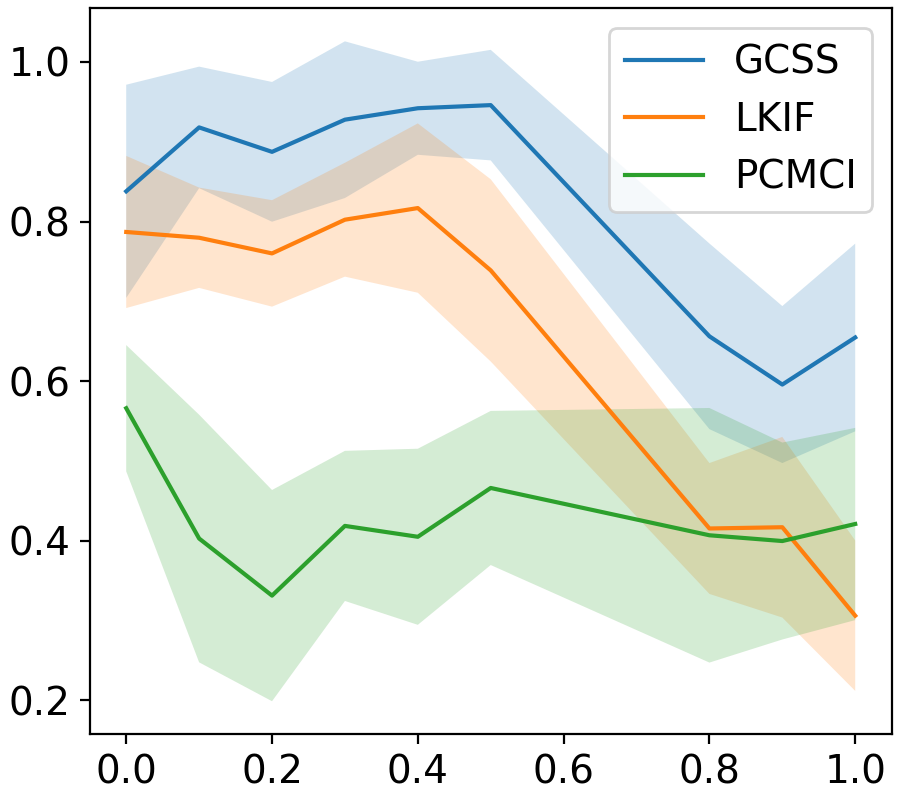
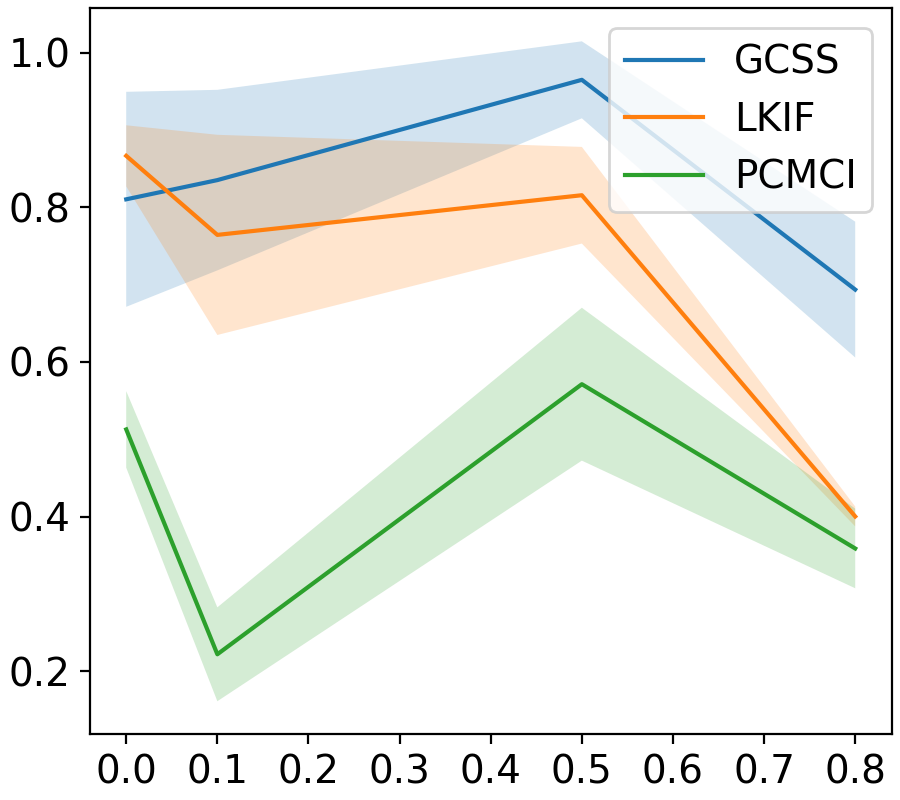
Added TPR/FPR diagrams, fractions of tipping runs, pcmci without contemporaneous links? will test more thoroughly

diff --git a/Evaluation.py b/Evaluation.py
@@ -550,11 +550,14 @@ def nonStationaryStable(plotOnly, ceilings, alpha, samples, tauMax, randomRuns):
         dim = 6
         metricsNormal = np.zeros((len(ceilings), randomRuns, 4, 3))
         metricsReducedInfo = np.zeros((len(ceilings), randomRuns, 4, 3))
+        tipped = np.zeros(len(ceilings))
         for i in range(len(ceilings)):
             for j in range(randomRuns):
                 dT = lambda x,t : (t <= 50) * (-0.4 / 50) * ceilings[i]
-                data = DataGenerator.getCascade6dConfoundedBrainpy(dT, truthMatrix, 1000, 0.001)
-                metrics = getMetricOfRealization(couplingMatrix = truthMatrix, algorithms = ["GCSS", "LKIF", "PCMCI"], model= "None", 
+                data = DataGenerator.getCascade6dConfoundedBrainpy(dT, truthMatrix, samples, 0.001)
+                # if we cross the threshold between +1 and -1, we assume tipped
+                if np.min(data[:dim]) < 0: tipped[i] += 1
+                matrices = getMetricOfRealization(couplingMatrix = truthMatrix, algorithms = ["GCSS", "LKIF", "PCMCI"], model= "None", 
                                                  samples = samples, alpha= alpha, couplingStrength= 1, noiseScale= 0.01, tauMax= tauMax,
                                                   seed= 0, deltaTCascadeOutput= 0, evalType= "Full", fullData = data.T, returnMatrices=True)
                 matrices = matrices[:,:dim,:dim]
@@ -563,11 +566,17 @@ def nonStationaryStable(plotOnly, ceilings, alpha, samples, tauMax, randomRuns):
                                                  samples = samples, alpha= alpha, couplingStrength= 1, noiseScale= 0.01, tauMax= tauMax,
                                                   seed= 0, deltaTCascadeOutput= 0, evalType= "Full", fullData = data[:dim].T, returnMatrices=True)
                 metricsReducedInfo[i,j] = np.array([getFullMetrics(truthMatrix, matrix) for matrix in matrices2]).T
+            tipped[i] = tipped[i] / randomRuns
         np.save("./data/Casc_forcing6d.npy", metricsNormal)
         np.save("./data/Casc_forcing_reducedInfo_6d.npy", metricsReducedInfo)
+        np.save("./data/Casc_forcing6d_tippedFraction.npy", tipped)
     else: 
         metricsNormal = np.load("./data/Casc_forcing6d.npy")
         metricsReducedInfo = np.load("./data/Casc_forcing_reducedInfo_6d.npy")
+        tipped = np.load("./data/Casc_forcing6d_tippedFraction.npy")
+    
+    vis.saveMCCCurve(tipped, ceilings, "", "./diagrams/forcing6d_tippedFraction", xlabel="Forcing Strength", ylabel="Fraction of runs with tipping")
+
     fullInfoMCC = MCCFromFull(np.array(metricsNormal), axis=2)
     fullInfoMean, fullInfoStd = getMeanStdDev(fullInfoMCC, axis = 1)
     noInfoMCC = MCCFromFull(np.array(metricsReducedInfo), axis=2)
@@ -582,11 +591,33 @@ def nonStationaryStable(plotOnly, ceilings, alpha, samples, tauMax, randomRuns):
     
     vis.saveMCCCurve(fullInfoMean.T, ceilings, "", "./diagrams/forcing6d", fullInfoStd.T, rowLabels=["GCSS", "LKIF", "PCMCI"])
     vis.saveMCCCurve(noInfoMean.T, ceilings, "", "./diagrams/forcing6d_reducedInformation", noInfoStd.T, rowLabels=["GCSS", "LKIF", "PCMCI"])
-
-    vis.saveMCCScatter(gcssInfo.T, ceilings, "", "./diagrams/forcing6d_gcss", gcssStd.T, rowLabels=["With Conf.", "Without"],figsize=(8,2), dpi=300)
-    vis.saveMCCScatter(lkifInfo.T, ceilings, "", "./diagrams/forcing6d_lkif", lkifStd.T, rowLabels=["With Conf.", "Without"],figsize=(8,2), dpi=300)
-    vis.saveMCCScatter(pcmInfo.T, ceilings, "", "./diagrams/forcing6d_pcmci", pcmStd.T, rowLabels=["With Conf.", "Without"],figsize=(8,2), dpi=300)
     
+    vis.saveMCCScatter(gcssInfo.T, ceilings, "", "./diagrams/forcing6d_gcss", gcssStd.T, rowLabels=["Known Confounder", "Hidden Confounder"],figsize=(8,2), dpi=300)
+    vis.saveMCCScatter(lkifInfo.T, ceilings, "", "./diagrams/forcing6d_lkif", lkifStd.T, rowLabels=["Known Confounder", "Hidden Confounder"],figsize=(8,2), dpi=300)
+    vis.saveMCCScatter(pcmInfo.T, ceilings, "", "./diagrams/forcing6d_pcmci", pcmStd.T, rowLabels=["Known Confounder", "Hidden Confounder"],figsize=(8,2), dpi=300)
+    
+    fullInfoMCC = tpr_fpr_FromFull(np.array(metricsNormal), axis=2)
+    fullInfoMean, fullInfoStd = getMeanStdDev(fullInfoMCC, axis = 1)
+    noInfoMCC = tpr_fpr_FromFull(np.array(metricsReducedInfo), axis=2)
+    noInfoMean, noInfoStd = getMeanStdDev(noInfoMCC, axis = 1)
+
+    gcssInfo = np.append(fullInfoMean[:,:,0], noInfoMean[:,:,0], axis=1)
+    lkifInfo = np.append(fullInfoMean[:,:,1], noInfoMean[:,:,1], axis=1)
+    pcmInfo = np.append(fullInfoMean[:,:,2], noInfoMean[:,:,2], axis=1)
+    gcssStd = np.append(fullInfoStd[:,:,0], noInfoStd[:,:,0], axis=1)
+    lkifStd = np.append(fullInfoStd[:,:,1], noInfoStd[:,:,1], axis=1)
+    pcmStd = np.append(fullInfoStd[:,:,2], noInfoStd[:,:,2], axis=1)
+
+    print(gcssInfo.shape)
+    
+    # vis.saveMCCCurve(fullInfoMean.T, ceilings, "", "./diagrams/forcing6d_TPR", fullInfoStd.T, rowLabels=["GCSS", "LKIF", "PCMCI"])
+    # vis.saveMCCCurve(noInfoMean.T, ceilings, "", "./diagrams/forcing6d_reducedInformation_TPR", noInfoStd.T, rowLabels=["GCSS", "LKIF", "PCMCI"])
+    
+    vis.saveMCCScatter(gcssInfo.T, ceilings, "", "./diagrams/forcing6d_gcss_TPR", gcssStd.T, rowLabels=["Known Confounder TPR", "Known Confounder FPR", "Hidden Confounder TPR", "Hidden Confounder FPR"],figsize=(8,2), dpi=300)
+    vis.saveMCCScatter(lkifInfo.T, ceilings, "", "./diagrams/forcing6d_lkif_TPR", lkifStd.T, rowLabels=["Known Confounder TPR", "Known Confounder FPR","Hidden Confounder TPR",  "Hidden Confounder FPR"],figsize=(8,2), dpi=300)
+    vis.saveMCCScatter(pcmInfo.T, ceilings, "", "./diagrams/forcing6d_pcmci_TPR", pcmStd.T, rowLabels=["Known Confounder TPR", "Known Confounder FPR","Hidden Confounder TPR",  "Hidden Confounder FPR"],figsize=(8,2), dpi=300)
+    
+
 def autoCorrEvaluations():
     loadCasc = False
     autoCorrelations = [0.1, 0.25, 0.5, 0.75, 1, 1.25,1.5,2,4]
@@ -1266,45 +1297,63 @@ def mainEvaluations(analysisIndex = None):
     print(endTime - startTime)
     print(str(int((endTime - startTime)/60))+ " minutes")
     
+# def main():
+#     from mpi4py import MPI
+#     comm = MPI.COMM_WORLD
+#     rank = comm.Get_rank()
+#     size = comm.Get_size()
+
+#     plotOnly = True
+#     randomRuns = 2
+#     alpha = 0.05
+#     samples = 1000
+#     couplingStrength = 1
+#     tauMax = [5,1,5]
+
+#     if rank == 0:
+#         sample6dEvaluations(plotOnly = plotOnly,
+#         sampleCounts = [50, 100, 200, 500, 1000, 2000, 5000, 10000],
+#         alpha = alpha,
+#         randomRuns = randomRuns,
+#         tauMax = tauMax,
+#         couplingStrength=couplingStrength)
+    
+#     if rank == 1:
+#         couplStrength6dEvaluations(plotOnly = plotOnly,
+#         couplStrengths = np.array([0.01, 0.02, 0.05, 0.07,0.1,0.15,0.2,0.25,0.3]),
+#         samples = samples,
+#         alpha = alpha,
+#         randomRuns = randomRuns,
+#         tauMax = tauMax)
+
+#     if rank == 2:
+#         delay6dEvaluations(plotOnly = plotOnly,
+#         delaySizes = [0,0.1, 0.2, 0.3, 0.4, 0.5, 0.6,0.7,0.8,0.9,1.0, 1.5,2.0,3.0],
+#         samples = samples,
+#         alpha = alpha,
+#         randomRuns = randomRuns,
+#         couplStrength=couplingStrength)
+
+#     if rank == 3:
+#         system6dEvaluations(plotOnly = plotOnly,
+#         alpha = alpha,
+#         samples = samples,
+#         randomRuns = randomRuns,
+#         tauMax = tauMax,
+#         couplingStrength=couplingStrength)
+
+#     if rank == 4:
+#         nonStationaryStable(plotOnly = plotOnly,
+#         ceilings = [0, 0.1, 0.2, 0.3, 0.4, 0.5, 0.8, 0.9, 1.0],
+#         alpha = alpha,
+#         samples = samples,
+#         tauMax = tauMax,
+#         randomRuns = randomRuns)
+
 if __name__ == "__main__":
-    plotOnly = True
-    randomRuns = 100
-    alpha = 0.05
-    samples = 1000
-    couplingStrength = 1
-    tauMax = [5,1,5]
-
-    sample6dEvaluations(plotOnly = plotOnly,
-        sampleCounts = [50, 100, 200, 500, 1000, 2000, 5000, 10000],
-        alpha = alpha,
-        randomRuns = randomRuns,
-        tauMax = tauMax,
-        couplingStrength=couplingStrength)
-    
-    couplStrength6dEvaluations(plotOnly = plotOnly,
-        couplStrengths = np.array([0.01, 0.02, 0.05, 0.07,0.1,0.15,0.2,0.25,0.3]),
-        samples = samples,
-        alpha = alpha,
-        randomRuns = randomRuns,
-        tauMax = tauMax)
-
-    delay6dEvaluations(plotOnly = plotOnly,
-        delaySizes = [0,0.1, 0.2, 0.3, 0.4, 0.5, 0.6,0.7,0.8,0.9,1.0, 1.5,2.0,3.0],
-        samples = samples,
-        alpha = alpha,
-        randomRuns = randomRuns,
-        couplStrength=couplingStrength)
-    
-    system6dEvaluations(plotOnly = plotOnly,
-        alpha = alpha,
-        samples = samples,
-        randomRuns = randomRuns,
-        tauMax = tauMax,
-        couplingStrength=couplingStrength)
-
-    nonStationaryStable(plotOnly = plotOnly,
-        ceilings = [0, 0.1, 0.2, 0.3, 0.4, 0.5, 0.8, 0.9, 1.0],
-        alpha = alpha,
-        samples = samples,
-        tauMax = tauMax,
-        randomRuns = randomRuns)
+    nonStationaryStable(plotOnly = True,
+        ceilings = [0, 0.1, 0.5, 0.8],
+        alpha = 0.05,
+        samples = 1000,
+        tauMax = [5,1,5],
+        randomRuns = 3)

diff --git a/DataGenerator.py b/DataGenerator.py
@@ -3,16 +3,16 @@ from matplotlib import pyplot as plt
 from scipy.integrate import solve_ivp
 
 from progress.bar import Bar
-
+import brainpy as bp
+import brainpy.math as bm
+import jax.numpy as jnp
 
 def dynSysX3(t,y,A,B,C,D,deltaT,noiseArr):
     return A*(np.power(y,3)) + B*y + C + D@(y-1) + noiseArr[int(t/deltaT)%len(noiseArr)]
 
 def gen3dDelayData(couplingMatrix, delayMatrix, timeSteps = 1000, savename = "threeInteractions"):
     
-    import brainpy as bp
-    import brainpy.math as bm
-    import jax.numpy as jnp
+    
     if couplingMatrix.shape != (3,3) or delayMatrix.shape != (3,3):
         print("Error, coupling or delay matrix not of shape (3,3)")
         return
@@ -40,9 +40,7 @@ def gen3dDelayData(couplingMatrix, delayMatrix, timeSteps = 1000, savename = "th
     return stacked
 
 def gen3dNoDelayData(couplingMatrix, timeSteps = 1000):
-    import brainpy as bp
-    import brainpy.math as bm
-    import jax.numpy as jnp
+    
     dt = 0.001
     f = lambda x,y,z,t: (- pow(x, 3) + x + couplingMatrix[0,1] * (y-1) + couplingMatrix[0,2] * (z-1),\
                           - pow(y, 3) + y + couplingMatrix[1,0] * (x-1) + couplingMatrix[1,2] * (z-1), \
@@ -61,9 +59,7 @@ def gen3dNoDelayData(couplingMatrix, timeSteps = 1000):
 
 # 6 dimensional cubic diff. eq. with delays
 def gen6dDelayData(couplingMatrix, delayMatrix, timeSteps = 1000):
-    import brainpy as bp
-    import brainpy.math as bm
-    import jax.numpy as jnp
+    
     if couplingMatrix.shape != (6,6) or delayMatrix.shape != (6,6):
         print("Error, coupling or delay matrix not of shape (6,6)")
         return
@@ -97,9 +93,7 @@ def gen6dDelayData(couplingMatrix, delayMatrix, timeSteps = 1000):
     return stacked
 
 def gen6dNoDelayData(couplingMatrix, timeSteps = 1000):
-    import brainpy as bp
-    import brainpy.math as bm
-    import jax.numpy as jnp
+
     if couplingMatrix.shape != (6,6):
         print("Error, coupling or delay matrix not of shape (6,6)")
         return
@@ -126,9 +120,7 @@ def gen6dNoDelayData(couplingMatrix, timeSteps = 1000):
     return stacked
 
 def gen12dNoDelayData(couplingMatrix, timeSteps = 1000):
-    import brainpy as bp
-    import brainpy.math as bm
-    import jax.numpy as jnp
+    
     if couplingMatrix.shape != (12,12):
         print("Error, coupling or delay matrix not of shape (12,12)")
         return
@@ -152,9 +144,7 @@ def gen12dNoDelayData(couplingMatrix, timeSteps = 1000):
     return stacked
 
 def gen3dAutoCorrData(couplingMatrix, autoCorr):
-    import brainpy as bp
-    import brainpy.math as bm
-    import jax.numpy as jnp
+    
     dt = 0.001
     f = lambda x,y,z,t: (- autoCorr*pow(x, 3) + autoCorr*x + couplingMatrix[0,1] * (y-1) + couplingMatrix[0,2] * (z-1),\
                           - autoCorr*pow(y, 3) + autoCorr*y + couplingMatrix[1,0] * (x-1) + couplingMatrix[1,2] * (z-1), \
@@ -191,9 +181,7 @@ def getCascadeDataBrainpy(couplingMatrix, samples, delay = 0):
     return
 
 def getCascade3dConfoundedBrainpy(confounderFct, couplingMatrix, samples, forcingNoise = 0.01):
-    import brainpy as bp
-    import brainpy.math as bm
-    import jax.numpy as jnp
+    
     if couplingMatrix.shape != (3,3):
         print("Error, coupling matrix not of shape (3,3)")
         return
@@ -216,9 +204,7 @@ def getCascade3dConfoundedBrainpy(confounderFct, couplingMatrix, samples, forcin
     return stacked
 
 def getCascade2dConfoundedBrainpy(confounderFct, couplingMatrix, samples, forcingNoise = 0.01):
-    import brainpy as bp
-    import brainpy.math as bm
-    import jax.numpy as jnp
+    
     if couplingMatrix.shape != (2,2):
         print("Error, coupling matrix not of shape (2,2)")
         return
@@ -241,9 +227,7 @@ def getCascade2dConfoundedBrainpy(confounderFct, couplingMatrix, samples, forcin
     return stacked
 
 def getCascade6dConfoundedBrainpy(confounderFct, couplingMatrix, samples, forcingNoise = 0.01):
-    import brainpy as bp
-    import brainpy.math as bm
-    import jax.numpy as jnp
+    
     if couplingMatrix.shape != (6,6):
         print("Error, coupling matrix not of shape (6,6)")
         return

diff --git a/GCSS.py b/GCSS.py
@@ -1,6 +1,8 @@
 import numpy as np
-
-init = False
+import oct2py
+from oct2py import octave
+oc = oct2py.Oct2Py()
+octave.addpath("./StateSpaceGC")
 
 def significanceMatrix(G, model_ord, samples, alpha):
     from scipy.stats import chi2
@@ -28,13 +30,6 @@ def significanceMatrix(G, model_ord, samples, alpha):
 
 # X in shape (variables, observations)
 def gcss(X, alpha, tau_max, returnAll = False):
-    """Lazy import of octave, because it takes some time to couple to python"""
-    import oct2py
-    from oct2py import octave
-    if not init:
-        oc = oct2py.Oct2Py()
-        octave.addpath("./StateSpaceGC")
-        init = True
     q, N = X.shape
     _, pbic = octave.ar_IC(X, tau_max, False, nout=2, verbose=False)
     pbic = max(pbic, tau_max)

diff --git a/PCMCI.py b/PCMCI.py
@@ -22,7 +22,8 @@ def PCMCIPlus(numeric_data, mask, var_names, mask_type, tauMax = 5, alpha = 0.05
         cond_ind_test=parcorr,
         verbosity=0)
 
-    tau_min = 0 if contempLinks else 1
+    #tau_min = 0 if contempLinks else 1
+    tau_min = 1
     tau_max = tauMax
     pc_alpha = alpha
 
